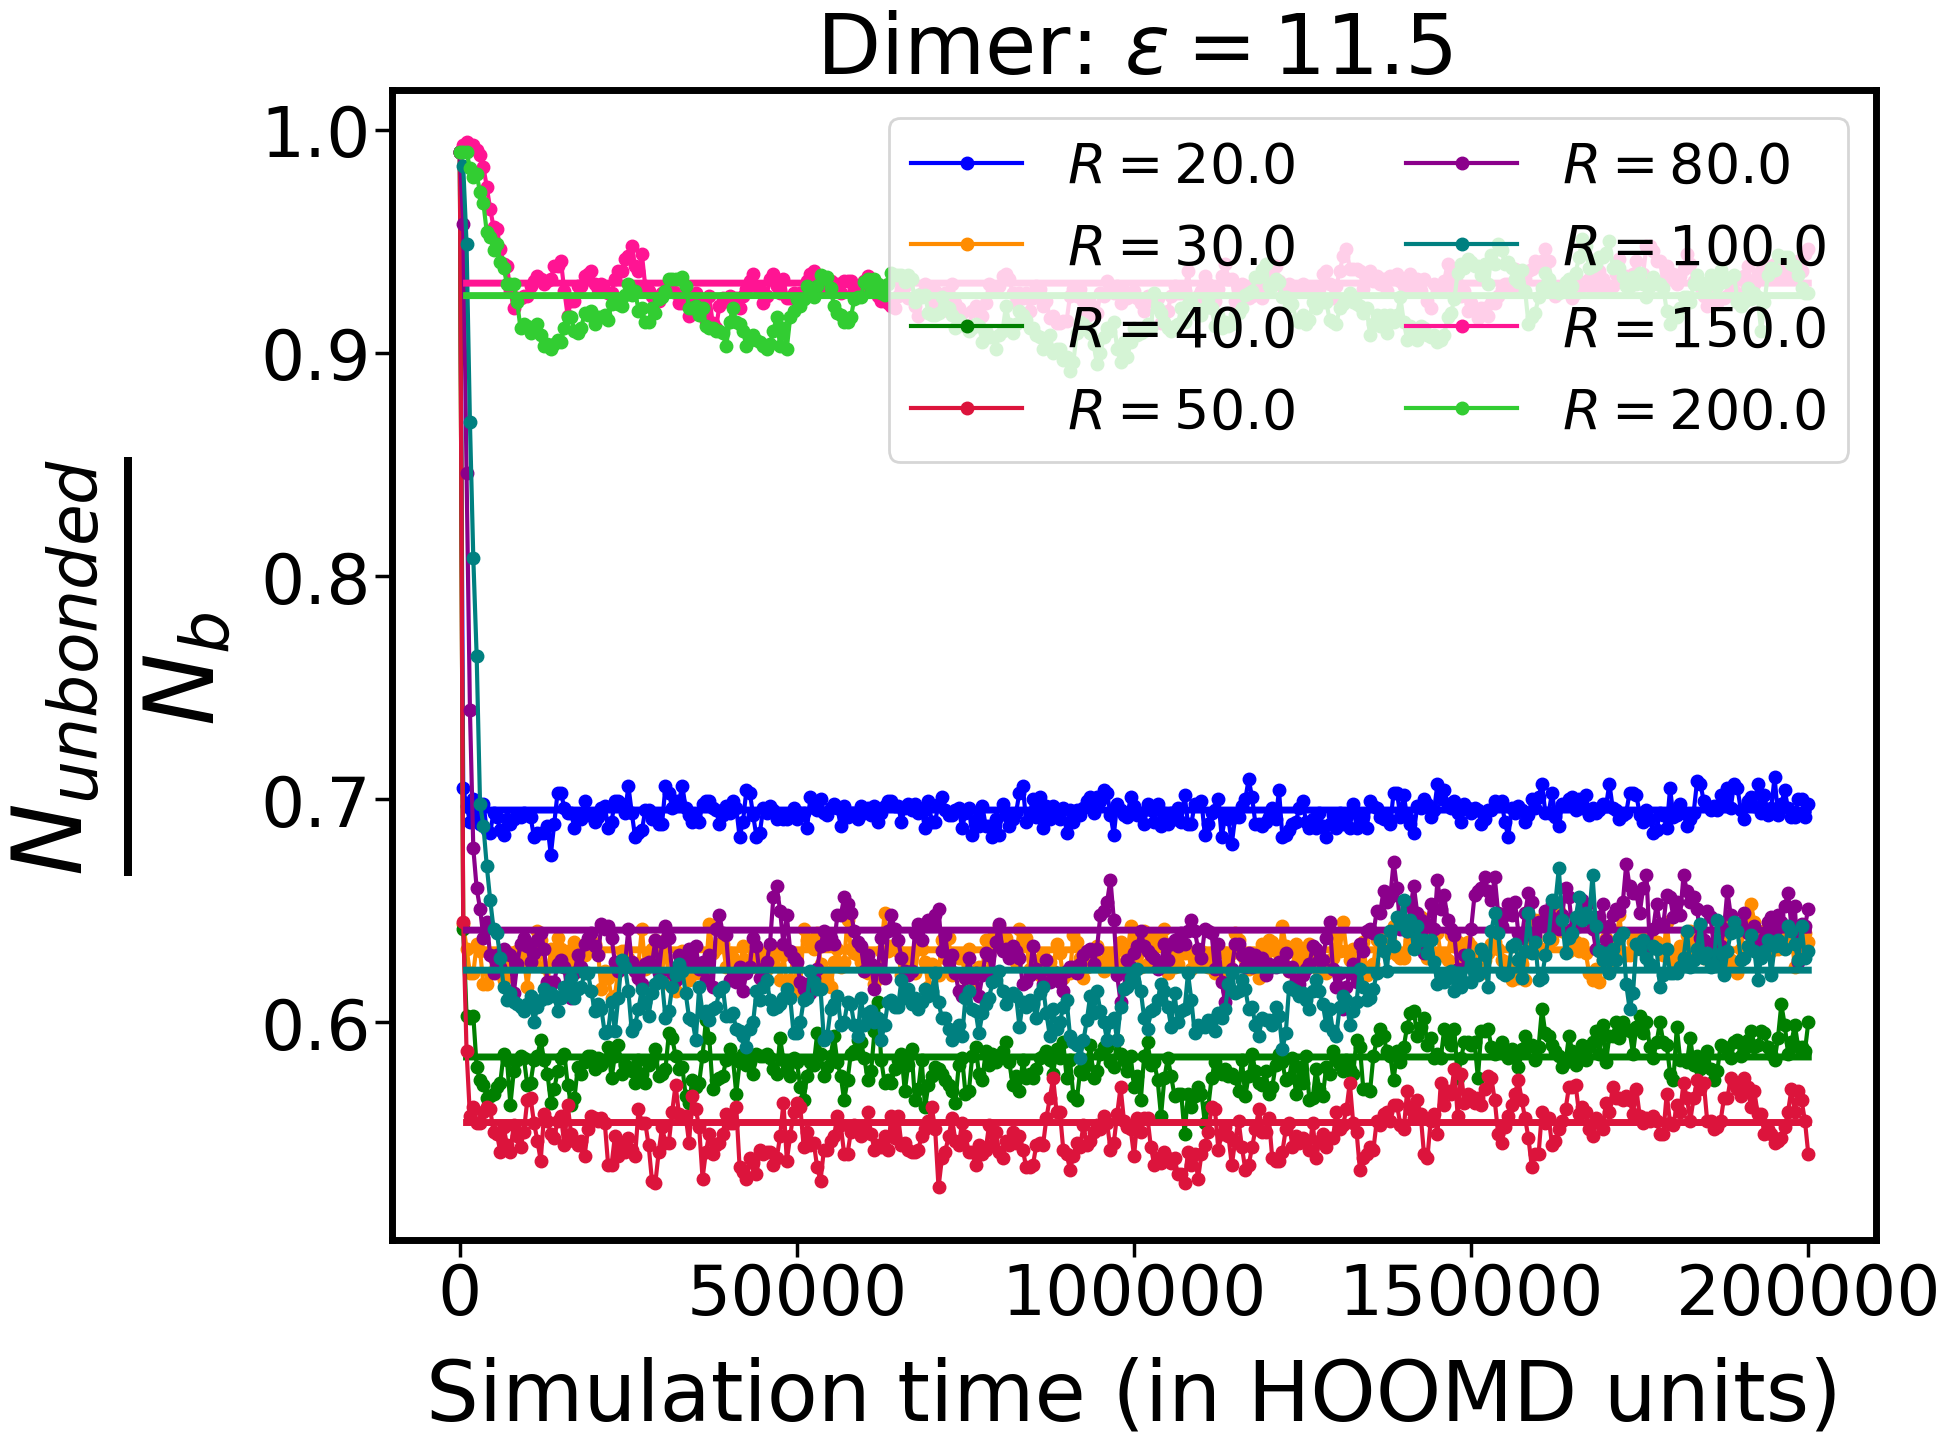
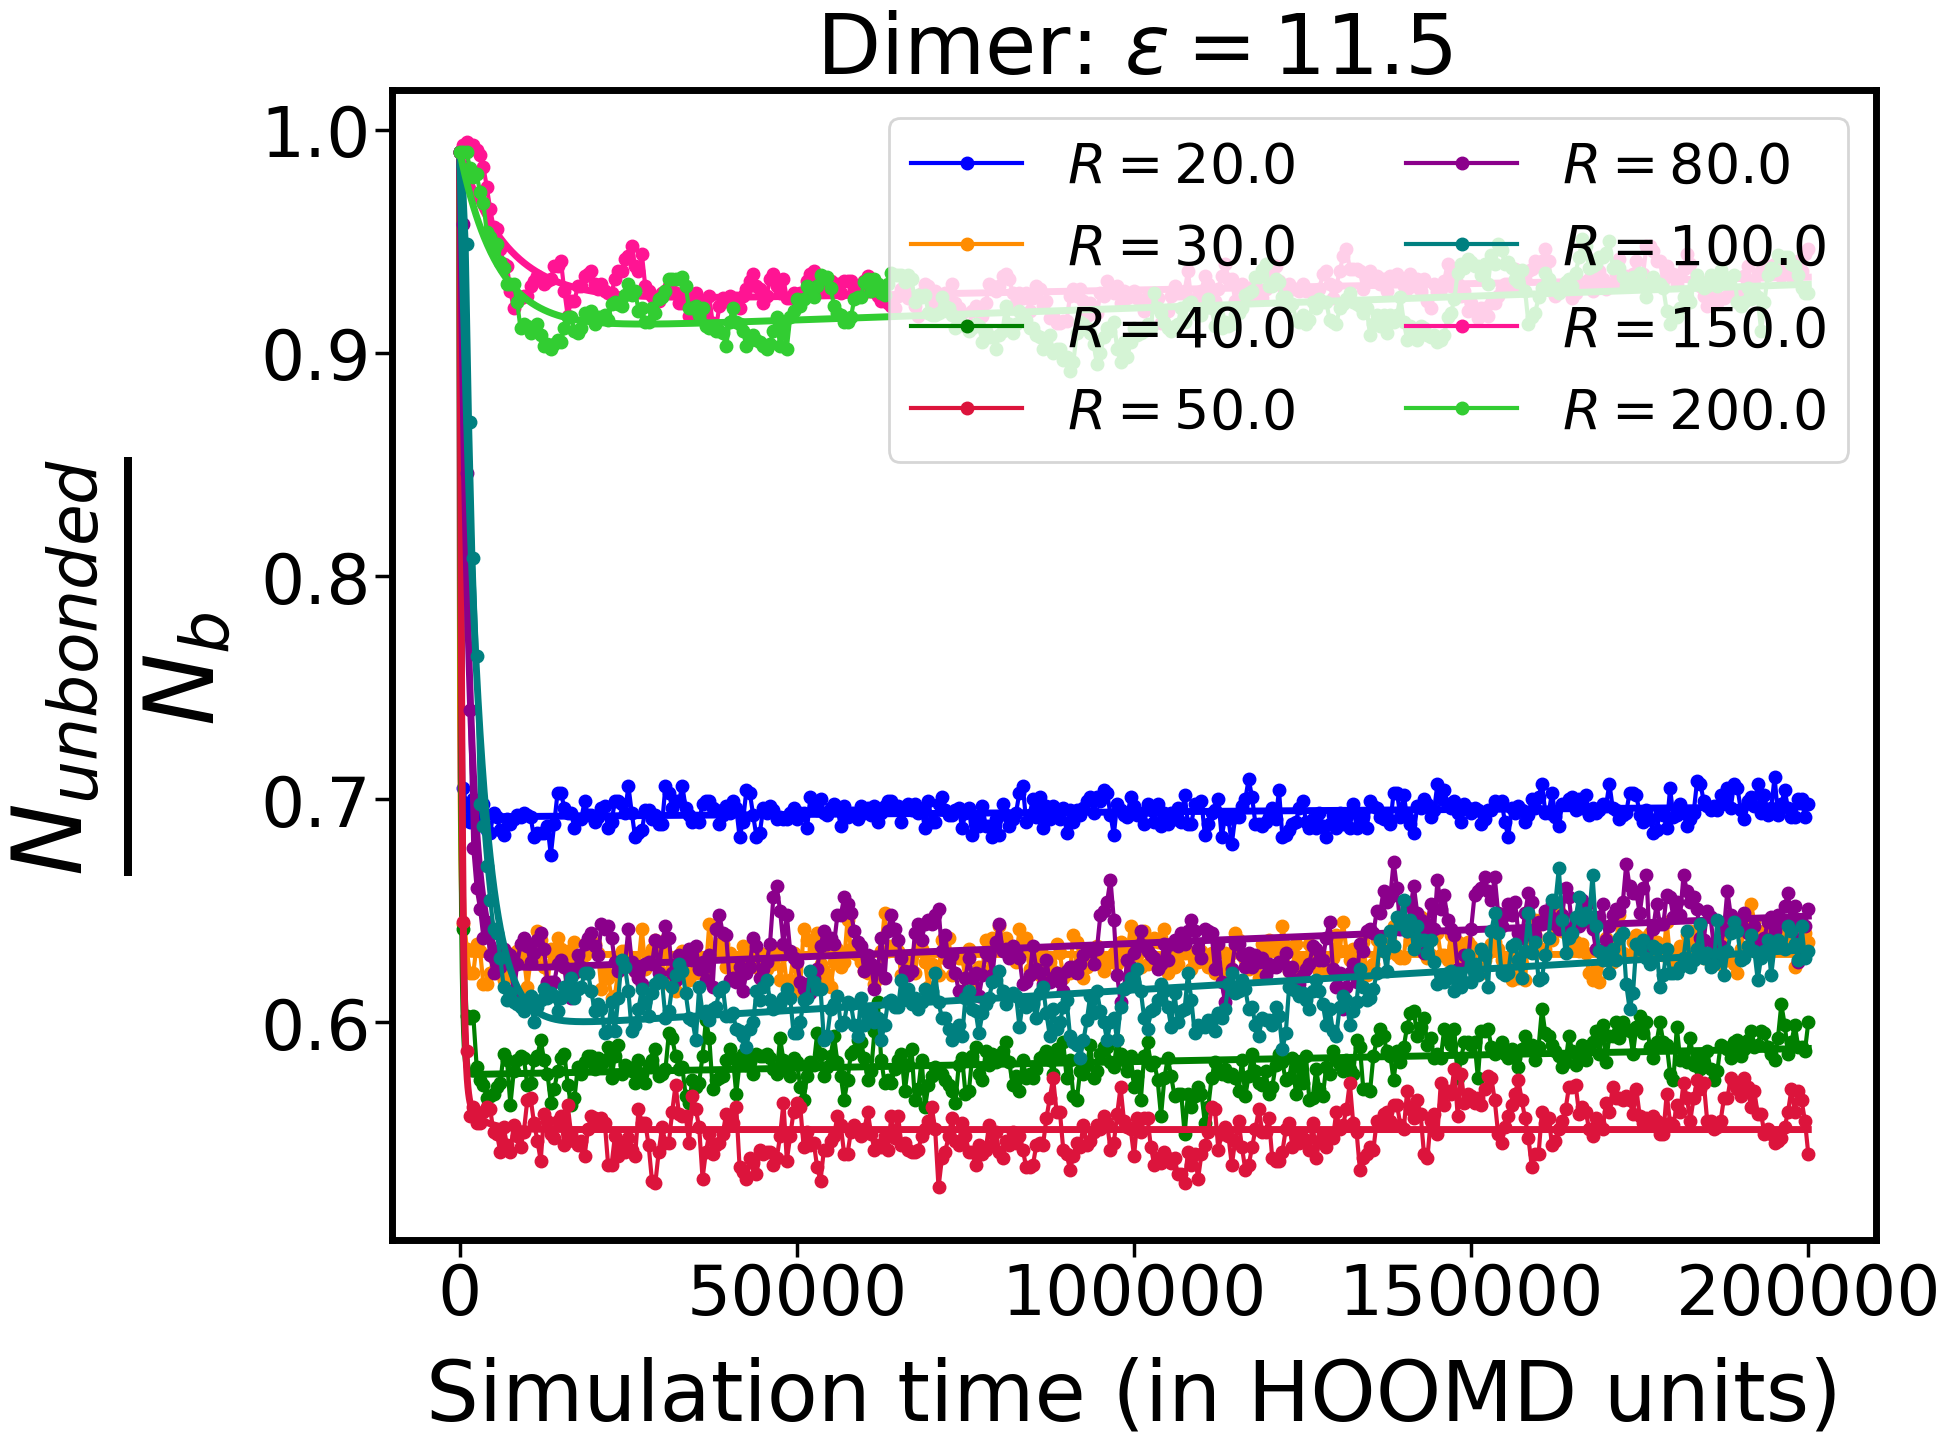
Updated the dimer trimer analysis folder

diff --git a/dimer_trimer/analysis/unbondedpatches_vs_time_varyRandeps.py b/dimer_trimer/analysis/unbondedpatches_vs_time_varyRandeps.py
@@ -115,7 +115,7 @@ def generate_plots_and_data(Nclusters,r0,kAB,radiusB,dimension,kspring,gammaA,ga
             p=ax.plot(timelist[::5],meanfractionlist[::5],marker='.',markersize=18,color=colors[r],label=r'$R = $'+str(label[0]))
 
             #calculate the saturation fraction of unbonded binders according to the regime of epsilon (do double exponential fitting for high epsilon) 
-            if(eps>=13.8):
+            if(eps>=10):
                 sat,truesat,recruitment_time,patchsaturationtime,function=fit_double_exponential(meanfractionlist,timelist)
                 if(sat>=0.0 and sat<=1.0 and np.abs(sat-truesat)<=0.1):
                     saturationfractionlist.append(np.round(sat,4))
@@ -129,7 +129,7 @@ def generate_plots_and_data(Nclusters,r0,kAB,radiusB,dimension,kspring,gammaA,ga
 
 
             #plot the fitting functions according to the regime of epsilon 
-            if(eps>=13.8):
+            if(eps>=10):
                 ax.plot(timelist,function,color=p[0].get_color(),linewidth=5.0)
             else:
                 ax.plot(timelist[10:],np.ones(timelist[10:].shape[0])*sat,color=p[0].get_color(),linewidth=5.0)
